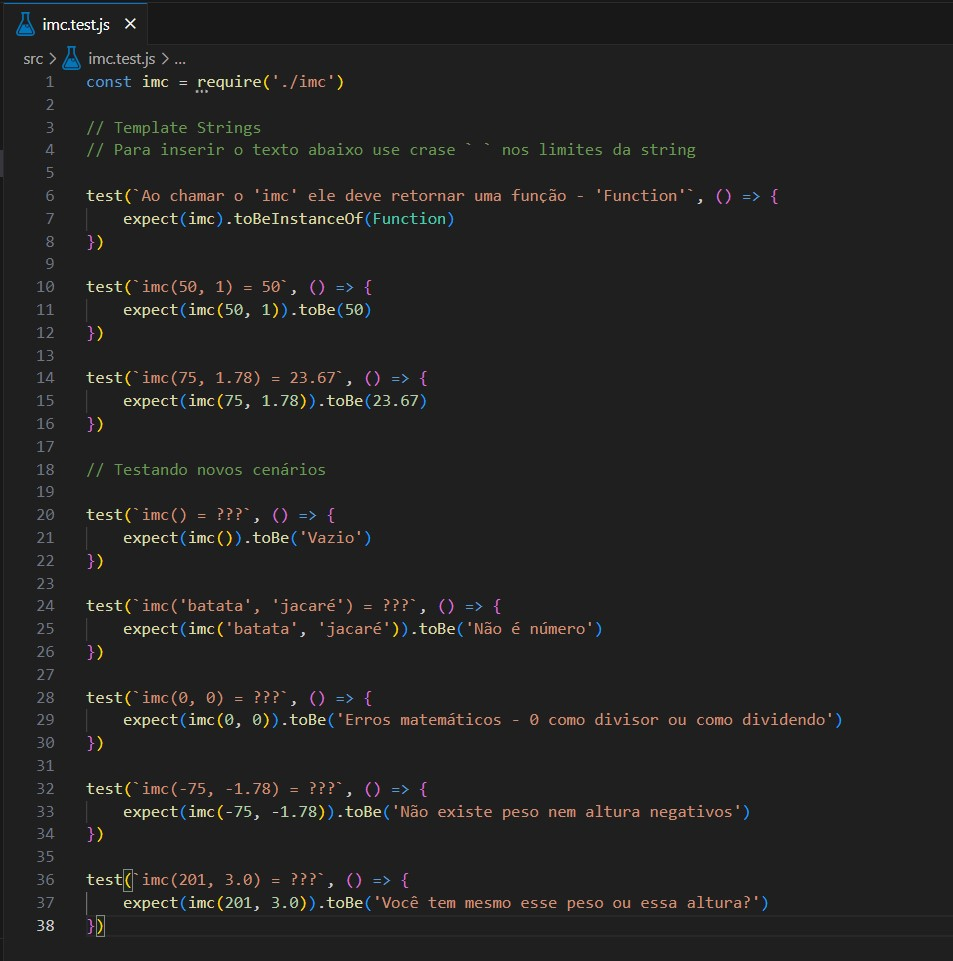
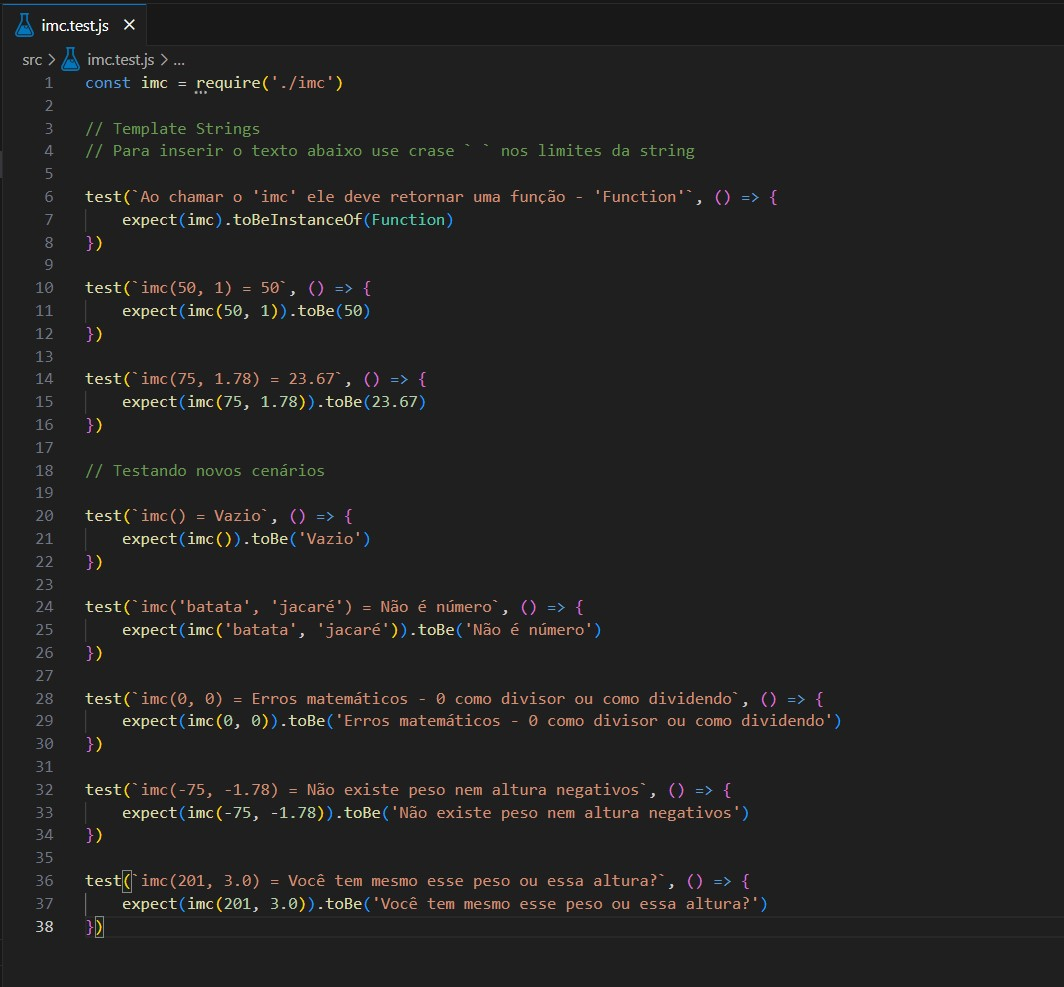
Código para solução dos novos cenários de teste

diff --git a/README.md b/README.md
@@ -187,6 +187,8 @@ Esse teste deve passar.
 Com isso finalizamos a primeira parte dos testes e a funcionalidade principal do programa Calcular o IMC.
 ---
 
+
+
 ## 7º Passo - Testando novos cenários
 
 Agora que o nosso programa já faz o que ele deve fazer, vamos pensar cenários possíveis que poderiam gerar `BUGs` no nosso programa e tratar esses `BUGs` para mostrar uma mensagem 'amigável' para o usuário.
@@ -201,7 +203,7 @@ E se em vez de passar números o usuário passar letras ou quais quer outros car
         imc('batata', 'jacaré')
         imc('setenta e cinco quilos', 'um metro e setenta e oito')
 
-E se o usuário passar o valor `0 [zero]` (zero é um número)?  
+E se o usuário passar o valor `0 [zero]`? (zero é um número [óbivo rs])  
 Na matemática é impossível dividir 0 por alguma coisa.  
 E também é outro erro matemático tentar dividir alguma coisa por 0.
 
@@ -213,7 +215,7 @@ E se o usuário passar alguma valor negativo?
         imc(-1, -2)
 
 E se o usuário passar valores muito altos?  
-A pessoa mais pesada que você já conheceu tinha qual peso? (ou qual peso você que uma pessoa pode chegar?)  
+A pessoa mais pesada que você já conheceu tinha qual peso? (ou qual peso você acha que uma pessoa pode chegar?)  
 E a pessoa mais alta?  
 
         imc(201, 3.0)
@@ -222,3 +224,10 @@ Tente criar esses casos de testes e veja como o programa se comporta.
 O teste passa? O teste falha? Qual o erro que ele acusou?  
 
 ![Novos cenários de teste](/imgs/24-novos-cenarios-de-teste.jpg)
+
+### Resolvendo os novos cenários de teste
+Espero que você tenha tentado (e conseguido) resolver os erros ao realizar os testes desses novos cenários
+
+Aqui está uma possível solução:
+
+![Código imc.js para novos cenários de teste](/imgs/31-codigo-imc-para-novos-cenarios-de-teste.jpg)
